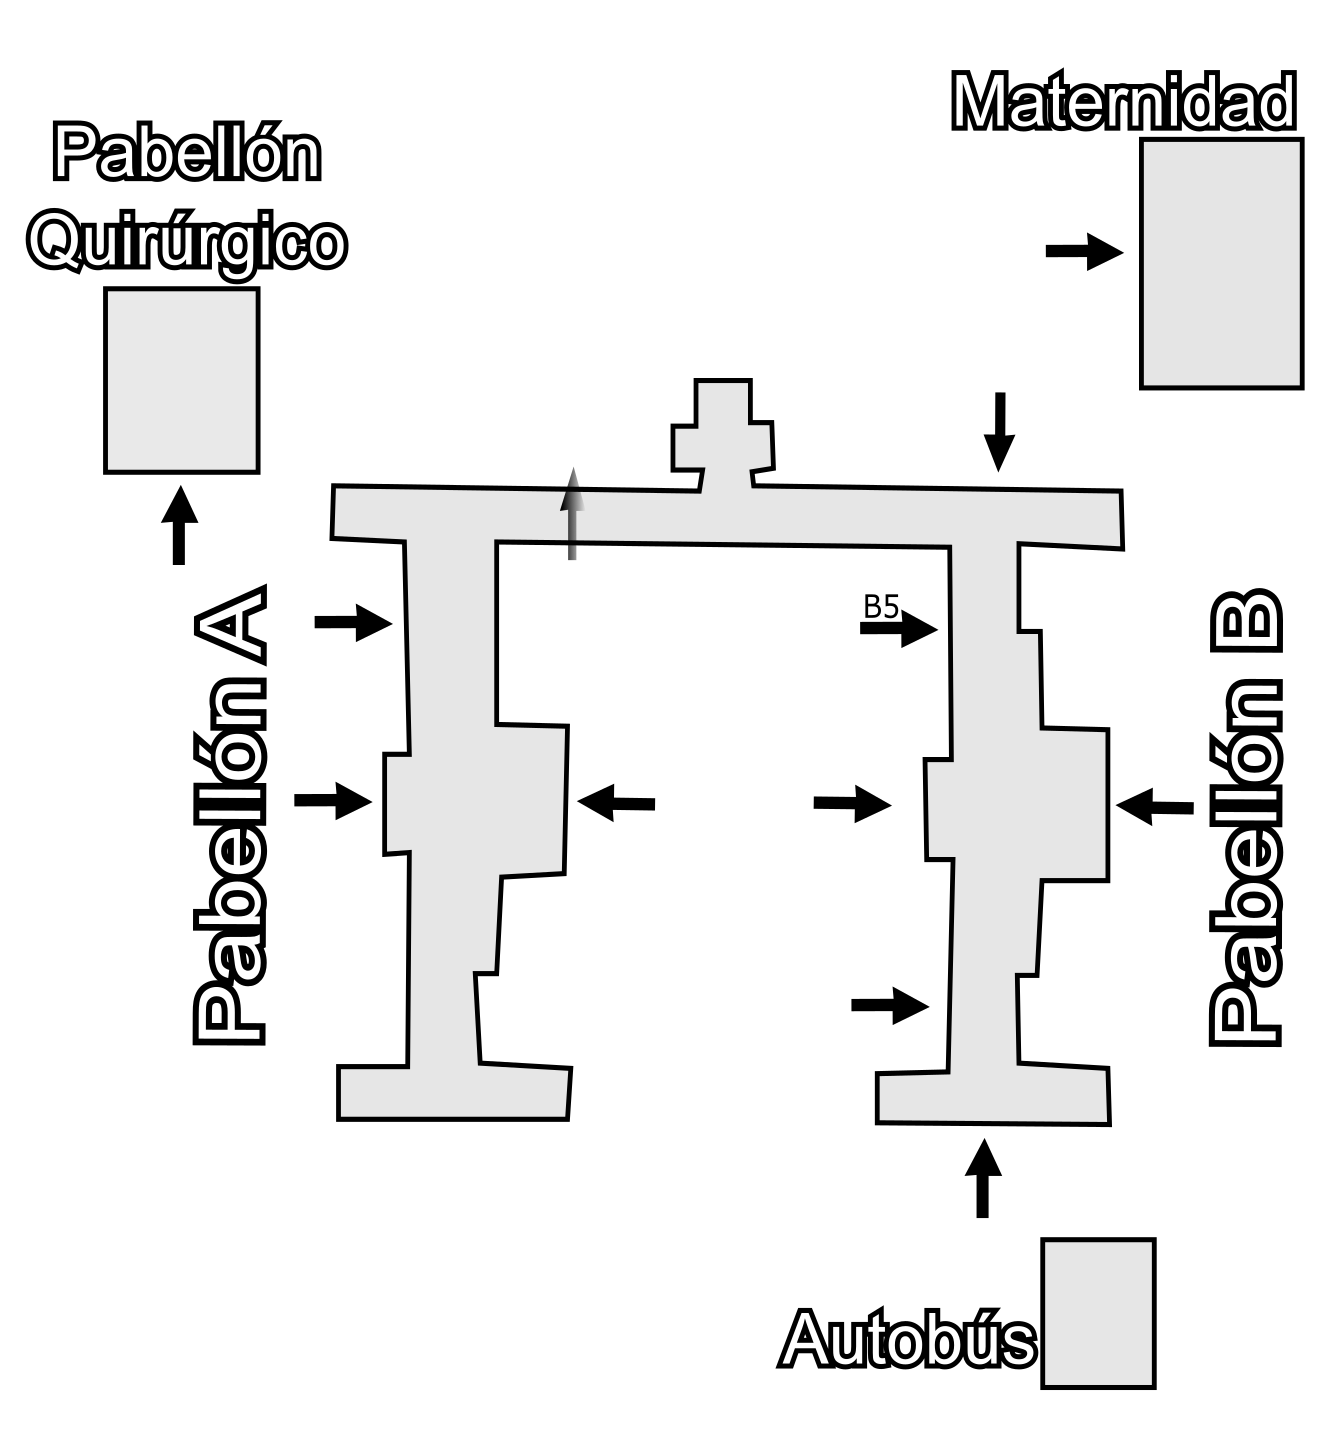
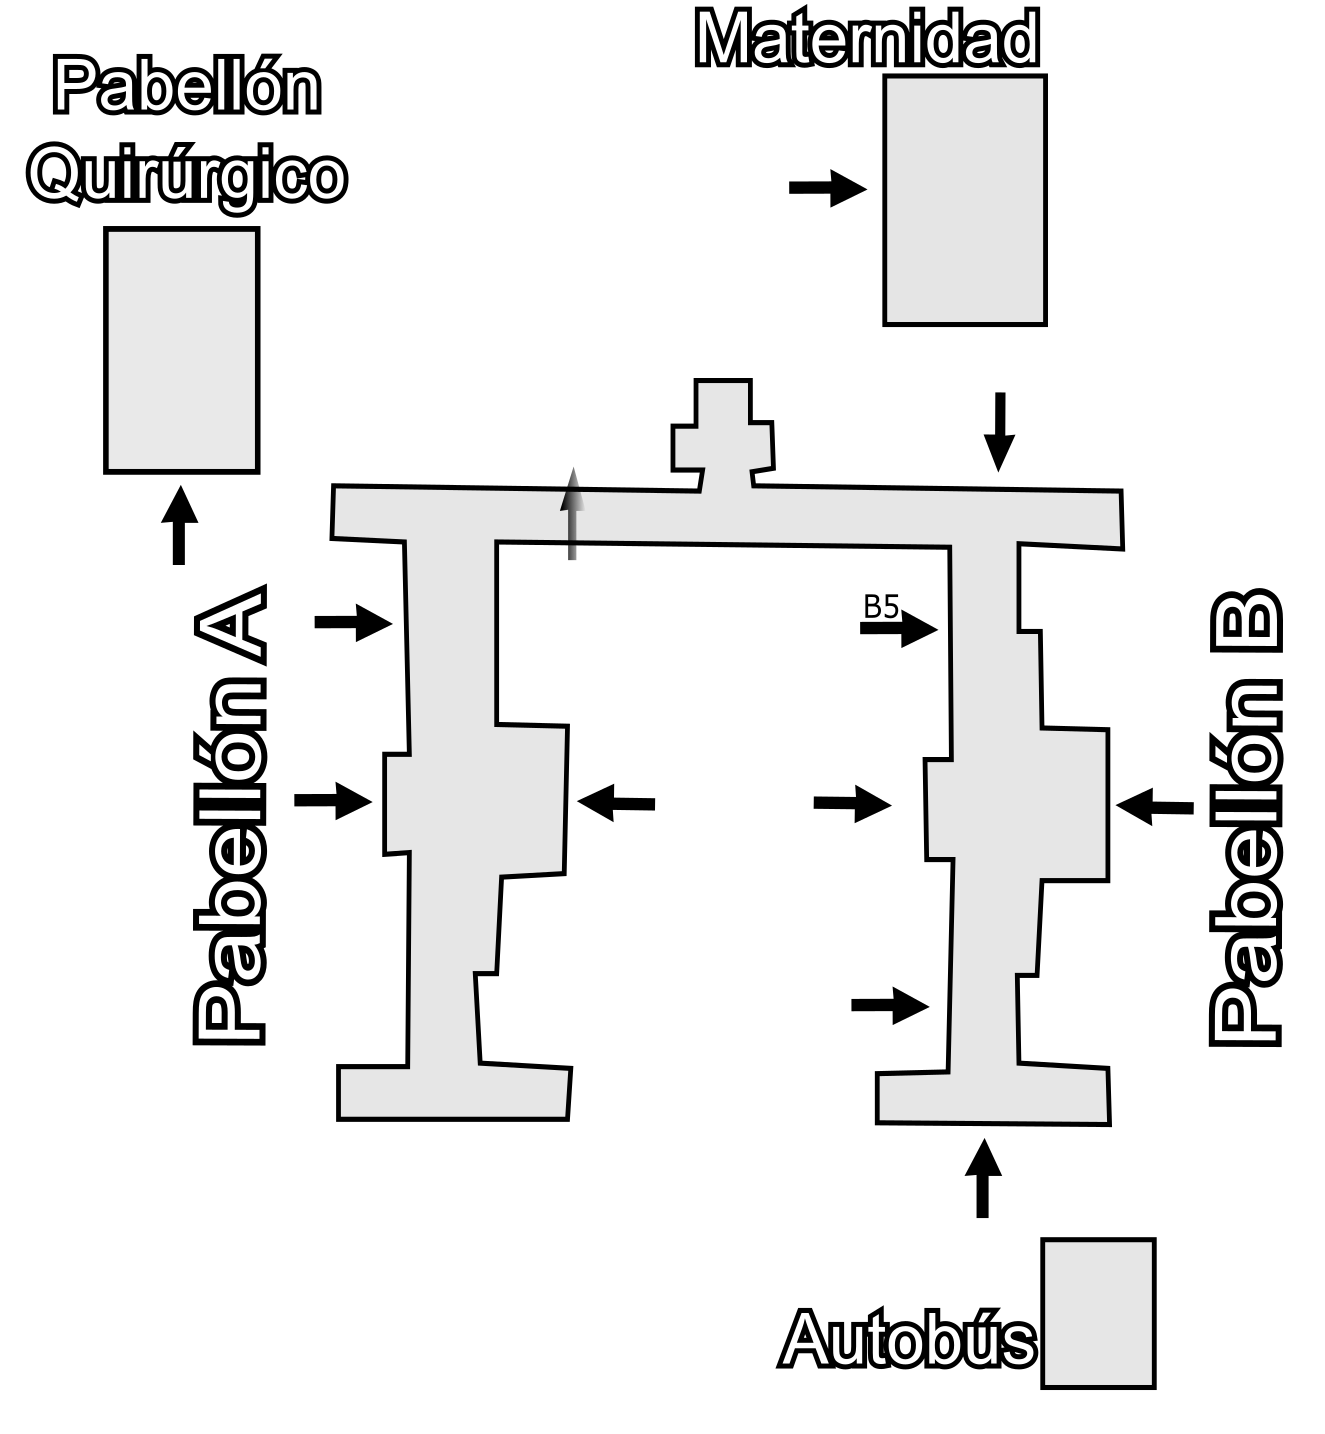
Update

Changed region(s): [[0.526, 0.0, 0.9902, 0.2762], [0.0, 0.0307, 0.2785, 0.2148]]

diff --git a/00-Projects/Mapa_hospital/data.js b/00-Projects/Mapa_hospital/data.js
@@ -16,7 +16,7 @@ var test_point = [
 {"x_percentage": 30.989, "y_percentage": 68.008, "text": "Resonancia", "building": "Pabellón A", "floor": "Bj", "comment": ""},
 {"x_percentage": 30.989, "y_percentage": 68.008, "text": "TAC", "building": "Pabellón A", "floor": "Bj", "comment": ""},
 {"x_percentage": 31.131, "y_percentage": 69.238, "text": "Radioterapia", "building": "Pabellón A", "floor": "Bj", "comment": ""},
-{"x_percentage": 88.308, "y_percentage": 17.410, "text": "Medicina Interna", "building": "Edificio Maternidad", "floor": "1", "comment": ""},
+{"x_percentage": 70.165, "y_percentage": 13.350, "text": "Medicina Interna", "building": "Edificio Maternidad", "floor": "1", "comment": ""},
 {"x_percentage": 75.880, "y_percentage": 74.740, "text": "Judiciales CNP", "building": "Pabellón B", "floor": "2", "comment": ""},
 {"x_percentage": 72.624, "y_percentage": 71.214, "text": "Pruebas Funcionales - PFRM2", "building": "Pabellón B", "floor": "2", "comment": "Es la puerta donde está enfermería, al lado de CNP<br>De aquí nos pueden derivar a la planta 1ª"},
 {"x_percentage": 31.429, "y_percentage": 43.362, "text": "Urgencias", "building": "Pabellón A", "floor": "Bj", "comment": ""},
@@ -50,7 +50,7 @@ var test_point = [
 {"x_percentage": 75.865, "y_percentage": 66.849, "text": "Gasometría", "building": "Pabellón B", "floor": "1", "comment": ""},
 {"x_percentage": 75.865, "y_percentage": 66.849, "text": "Espirometría", "building": "Pabellón B", "floor": "1", "comment": ""},
 {"x_percentage": 75.414, "y_percentage": 71.852, "text": "Cirugía Mayor Torácica", "building": "Pabellón B", "floor": "1", "comment": ""},
-{"x_percentage": 88.496, "y_percentage": 17.650, "text": "Ginecología Urgencias", "building": "Edificio Maternidad", "floor": "4", "comment": ""},
+{"x_percentage": 69.976, "y_percentage": 12.994, "text": "Ginecología Urgencias", "building": "Edificio Maternidad", "floor": "4", "comment": ""},
 {"x_percentage": 46.376, "y_percentage": 60.027, "text": "Analíticas", "building": "Patio Central", "floor": "Bj", "comment": "Se trata de un prefabricado temporal que se ubica al lado del acceso al Pabellón A desde el patio interior"},
 {"x_percentage": 35.218, "y_percentage": 40.310, "text": "Unidad del dolor", "building": "Pabellón A", "floor": "2", "comment": "Acceso B3. Si no es correcto, comunicarlo, por favor."},
 {"x_percentage": 48.546, "y_percentage": 0.267, "text": "Bar/Almuerzo", "building": "Fuera del recinto", "floor": "Bj", "comment": ""},
@@ -76,4 +76,5 @@ var last_updates = ["30-10-2023 Añadido el punto Analíticas (Gracias por la co
 "06-11-2023 Se modifica Nutrición y Dietética: se indica que está en el mismo lugar que trauma",
 "07-11-2023 Se quita tutorial de Youtube y se añade enlace a APK para Android v.1.00",
 "07-11-2023 La actual APK es una actualización v.1.03: ahora se borra el caché de forma automática y se confirma el envío el datos con un mensaje",
+"07-11-2023 Mapa modificado para ubicar correctamente el edificio de maternidad y puntos asociados"
 ]
